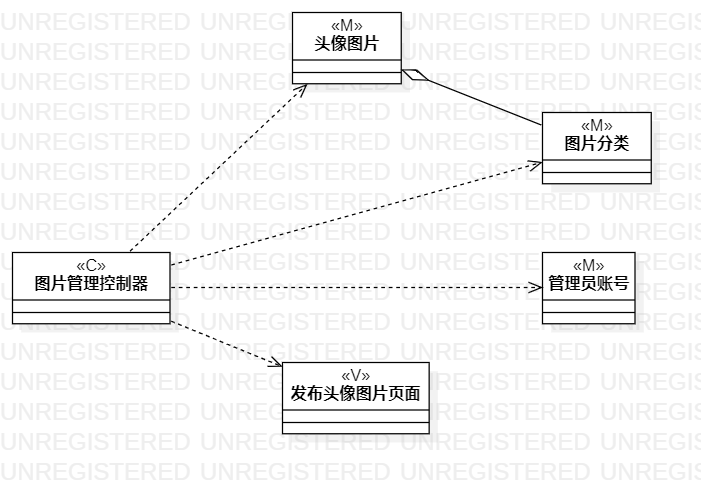
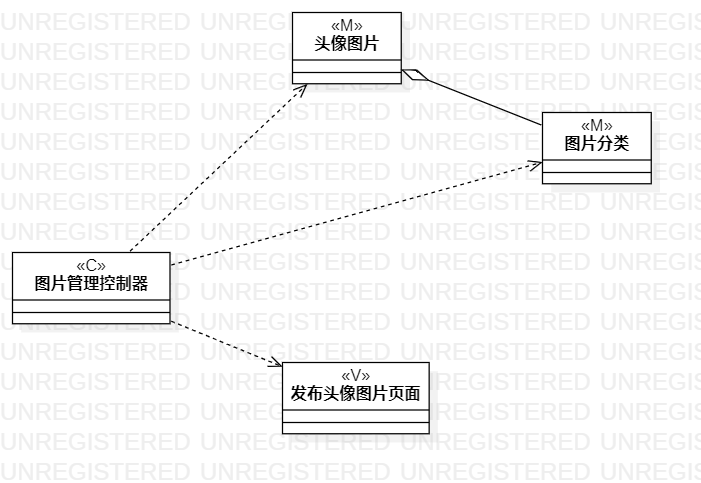
提交实验6内容

diff --git a/students/1714080902133/lab6.md b/students/1714080902133/lab6.md
@@ -1,0 +1,38 @@
+# 实验六：交互建模
+
+## 一、实验目标
+
+1. 理解系统交互的概念；
+2. 掌握UML顺序图的画法；
+3. 掌握对象交互的定义与建模方法。
+
+## 二、实验内容
+
+1. 据活动图和类图，确定功能所涉及的系统对象；
+2. 在顺序图上画出参与者；
+3. 在顺序图上画出消息。
+
+## 三、实验步骤
+
+1. 理解顺序图的符号意义及其用法；
+2. 在StarUML创建SequenceDiagram；
+3. 思考类图的严谨性，对应类图添加Lifeline；
+4. 根据活动图确定消息，添加message；
+5. 思考顺序图的严谨性，修改类图、活动图、用例规约、顺序图；
+6. 调节符号之间的间距与比例，美化顺序图；
+7. 重复2-6，完成全部顺序图；
+8. 使用Git Bash提交实验报告。
+
+## 四、实验结果
+
+### 发布头像图片顺序图
+
+![](./image/SequenceDiagram1.png)
+
+### 删除头像图片顺序图
+
+![](./image/SequenceDiagram2.png)
+
+### 下载头像图片顺序图
+
+![](./image/SequenceDiagram3.png)

diff --git a/students/1714080902133/lab4-5.md b/students/1714080902133/lab4-5.md
@@ -28,13 +28,13 @@
 
 ### 发布头像图片类图
 
-需要管理员权限。
+需要管理员权限，但管理员登录是前置条件，这里逻辑没有涉及到。
 
 ![](./image/ClassDiagram4_1.png)
 
 ### 删除头像图片类图
 
-需要管理员权限。
+需要管理员权限，但管理员登录是前置条件，这里逻辑没有涉及到。
 
 ![](./image/ClassDiagram4_2.png)
 
